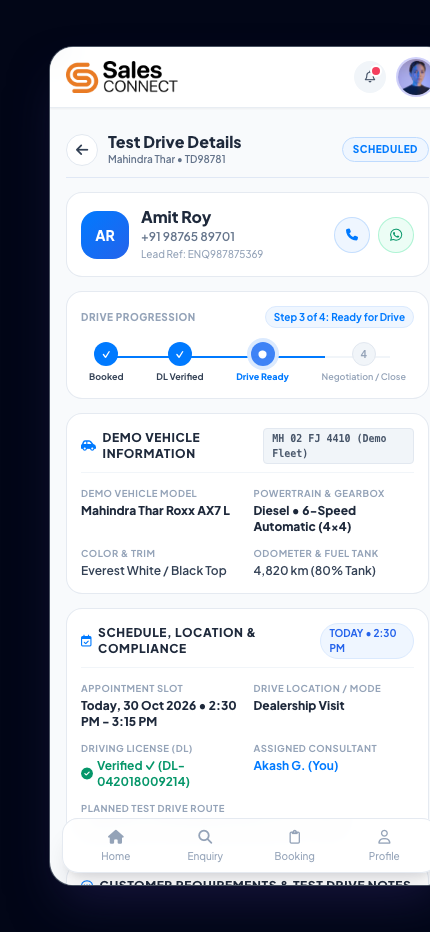
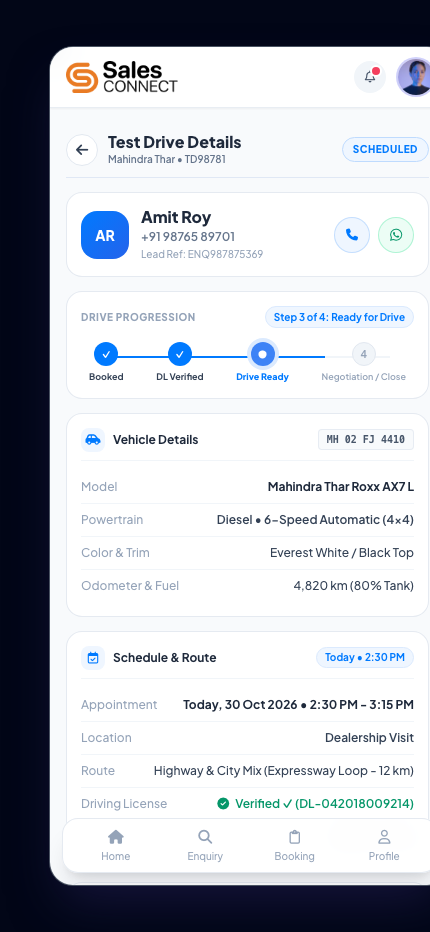
Redesign Vehicle Details, Schedule, and Notes cards with clean key-value layout and high legibility

Changed region(s): [[0.1814, 0.4667, 0.9674, 0.8712], [0.6953, 0.9335, 0.7256, 0.9646], [0.514, 0.9335, 0.5442, 0.9646]]

diff --git a/index.html b/index.html
@@ -2996,90 +2996,97 @@
           </div>
         </div>
 
-        <!-- 3. Test Drive Vehicle Specifications Card -->
-        <div class="bg-white rounded-2xl border border-slate-200/90 p-3.5 shadow-xs space-y-3">
-          <div class="flex items-center justify-between border-b border-slate-100 pb-2">
-            <h3 class="text-xs font-black text-slate-800 uppercase tracking-wider flex items-center gap-1.5">
-              <i class="fa-solid fa-car-side text-[#007AFF] text-xs"></i>
-              <span>Demo Vehicle Information</span>
-            </h3>
-            <span id="tdScreenFleetBadge" class="text-[10px] font-mono font-bold text-slate-600 bg-slate-100 px-2 py-0.5 rounded border border-slate-200">MH 02 FJ 4410</span>
+        <!-- 3. Vehicle Details -->
+        <div class="bg-white rounded-2xl border border-slate-200/90 p-3.5 shadow-xs space-y-2.5">
+          <div class="flex items-center justify-between pb-2 border-b border-slate-100">
+            <div class="flex items-center gap-2">
+              <div class="w-6 h-6 rounded-lg bg-blue-50 text-[#007AFF] flex items-center justify-center text-xs">
+                <i class="fa-solid fa-car-side"></i>
+              </div>
+              <h3 class="text-xs font-bold text-slate-800">Vehicle Details</h3>
+            </div>
+            <span id="tdScreenFleetBadge" class="text-[10px] font-mono font-semibold text-slate-600 bg-slate-50 px-2 py-0.5 rounded border border-slate-200/80">MH 02 FJ 4410</span>
           </div>
 
-          <div class="grid grid-cols-2 gap-y-2.5 gap-x-3 text-xs">
-            <div>
-              <span class="text-[9.5px] font-bold text-slate-400 uppercase tracking-wider block">Demo Vehicle Model</span>
-              <span id="tdScreenVehicleModel" class="font-extrabold text-slate-800 text-xs block mt-0.5">Mahindra Thar Roxx AX7 L</span>
+          <div class="divide-y divide-slate-100 text-xs">
+            <div class="py-2 flex items-center justify-between gap-3">
+              <span class="text-slate-400 font-medium shrink-0">Model</span>
+              <span id="tdScreenVehicleModel" class="font-bold text-slate-800 text-right truncate">Mahindra Thar Roxx AX7 L</span>
             </div>
-            <div>
-              <span class="text-[9.5px] font-bold text-slate-400 uppercase tracking-wider block">Powertrain & Gearbox</span>
-              <span id="tdScreenFuelTrans" class="font-extrabold text-slate-800 text-xs block mt-0.5">Diesel • Automatic (4x4)</span>
+            <div class="py-2 flex items-center justify-between gap-3">
+              <span class="text-slate-400 font-medium shrink-0">Powertrain</span>
+              <span id="tdScreenFuelTrans" class="font-semibold text-slate-700 text-right truncate">Diesel • Automatic (4x4)</span>
             </div>
-            <div>
-              <span class="text-[9.5px] font-bold text-slate-400 uppercase tracking-wider block">Color & Trim</span>
-              <span id="tdScreenColor" class="font-semibold text-slate-700 block mt-0.5">Everest White / Black Top</span>
+            <div class="py-2 flex items-center justify-between gap-3">
+              <span class="text-slate-400 font-medium shrink-0">Color & Trim</span>
+              <span id="tdScreenColor" class="font-medium text-slate-700 text-right truncate">Everest White / Black Top</span>
             </div>
-            <div>
-              <span class="text-[9.5px] font-bold text-slate-400 uppercase tracking-wider block">Odometer & Fuel Tank</span>
-              <span id="tdScreenOdo" class="font-semibold text-slate-700 block mt-0.5">4,820 km (80% Tank)</span>
+            <div class="py-2 flex items-center justify-between gap-3">
+              <span class="text-slate-400 font-medium shrink-0">Odometer & Fuel</span>
+              <span id="tdScreenOdo" class="font-medium text-slate-700 text-right">4,820 km (80% Tank)</span>
             </div>
           </div>
         </div>
 
-        <!-- 4. Schedule, Location & Compliance Details Card -->
-        <div class="bg-white rounded-2xl border border-slate-200/90 p-3.5 shadow-xs space-y-3">
-          <div class="flex items-center justify-between border-b border-slate-100 pb-2">
-            <h3 class="text-xs font-black text-slate-800 uppercase tracking-wider flex items-center gap-1.5">
-              <i class="fa-regular fa-calendar-check text-[#007AFF] text-xs"></i>
-              <span>Schedule, Location & Compliance</span>
-            </h3>
-            <span id="tdScreenSlotPill" class="text-[10px] font-bold text-blue-600 bg-blue-50 px-2 py-0.5 rounded-full border border-blue-100">TODAY • 2:30 PM</span>
+        <!-- 4. Schedule & Route -->
+        <div class="bg-white rounded-2xl border border-slate-200/90 p-3.5 shadow-xs space-y-2.5">
+          <div class="flex items-center justify-between pb-2 border-b border-slate-100">
+            <div class="flex items-center gap-2">
+              <div class="w-6 h-6 rounded-lg bg-blue-50 text-[#007AFF] flex items-center justify-center text-xs">
+                <i class="fa-regular fa-calendar-check"></i>
+              </div>
+              <h3 class="text-xs font-bold text-slate-800">Schedule & Route</h3>
+            </div>
+            <span id="tdScreenSlotPill" class="text-[10px] font-bold text-[#007AFF] bg-blue-50 px-2 py-0.5 rounded-full border border-blue-100">Today • 2:30 PM</span>
           </div>
 
-          <div class="grid grid-cols-2 gap-y-2.5 gap-x-3 text-xs">
-            <div>
-              <span class="text-[9.5px] font-bold text-slate-400 uppercase tracking-wider block">Appointment Slot</span>
-              <span id="tdScreenSlot" class="font-extrabold text-slate-800 text-xs block mt-0.5">Today, 30 Oct • 2:30 - 3:15 PM</span>
+          <div class="divide-y divide-slate-100 text-xs">
+            <div class="py-2 flex items-center justify-between gap-3">
+              <span class="text-slate-400 font-medium shrink-0">Appointment</span>
+              <span id="tdScreenSlot" class="font-bold text-slate-800 text-right">Today, 30 Oct • 2:30 - 3:15 PM</span>
             </div>
-            <div>
-              <span class="text-[9.5px] font-bold text-slate-400 uppercase tracking-wider block">Drive Location / Mode</span>
-              <span id="tdScreenLocation" class="font-extrabold text-slate-800 text-xs block mt-0.5">Dealership Visit</span>
+            <div class="py-2 flex items-center justify-between gap-3">
+              <span class="text-slate-400 font-medium shrink-0">Location</span>
+              <span id="tdScreenLocation" class="font-semibold text-slate-700 text-right">Dealership Visit</span>
             </div>
-            <div>
-              <span class="text-[9.5px] font-bold text-slate-400 uppercase tracking-wider block">Driving License (DL)</span>
-              <span id="tdScreenDl" class="font-bold text-emerald-600 block mt-0.5 flex items-center gap-1">
+            <div class="py-2 flex items-center justify-between gap-3">
+              <span class="text-slate-400 font-medium shrink-0">Route</span>
+              <span id="tdScreenRoute" class="font-medium text-slate-700 text-right truncate">Expressway Loop (12 km)</span>
+            </div>
+            <div class="py-2 flex items-center justify-between gap-3">
+              <span class="text-slate-400 font-medium shrink-0">Driving License</span>
+              <span id="tdScreenDl" class="font-semibold text-emerald-600 flex items-center gap-1.5 text-right">
                 <i class="fa-solid fa-circle-check text-xs"></i>
                 <span>Verified (DL-042018009214)</span>
               </span>
             </div>
-            <div>
-              <span class="text-[9.5px] font-bold text-slate-400 uppercase tracking-wider block">Assigned Consultant</span>
-              <span id="tdScreenExecutive" class="font-bold text-[#007AFF] block mt-0.5">Akash G. (You)</span>
-            </div>
-            <div class="col-span-2">
-              <span class="text-[9.5px] font-bold text-slate-400 uppercase tracking-wider block">Planned Test Drive Route</span>
-              <span id="tdScreenRoute" class="font-semibold text-slate-700 block mt-0.5">Highway & City Mix (Expressway Loop - 12 km)</span>
+            <div class="py-2 flex items-center justify-between gap-3">
+              <span class="text-slate-400 font-medium shrink-0">Consultant</span>
+              <span id="tdScreenExecutive" class="font-semibold text-slate-700 text-right">Akash G. (You)</span>
             </div>
           </div>
         </div>
 
-        <!-- 5. Test Drive Remarks & Customer Focus -->
+        <!-- 5. Test Drive Notes -->
         <div class="bg-white rounded-2xl border border-slate-200/90 p-3.5 shadow-xs space-y-2.5">
-          <h3 class="text-xs font-black text-slate-800 uppercase tracking-wider flex items-center gap-1.5">
-            <i class="fa-regular fa-comment-dots text-[#007AFF] text-xs"></i>
-            <span>Customer Requirements & Test Drive Notes</span>
-          </h3>
-          <div class="bg-slate-50 p-3 rounded-xl border border-slate-200/70 text-xs space-y-2">
-            <div class="flex items-start gap-2">
-              <span class="w-1.5 h-1.5 rounded-full bg-[#007AFF] mt-1.5 shrink-0"></span>
-              <p id="tdScreenNotes" class="text-slate-700 leading-snug">
+          <div class="flex items-center gap-2 pb-2 border-b border-slate-100">
+            <div class="w-6 h-6 rounded-lg bg-blue-50 text-[#007AFF] flex items-center justify-center text-xs">
+              <i class="fa-regular fa-comment-dots"></i>
+            </div>
+            <h3 class="text-xs font-bold text-slate-800">Test Drive Notes</h3>
+          </div>
+
+          <div class="space-y-2 text-xs">
+            <div class="bg-slate-50/70 p-2.5 rounded-xl border border-slate-200/60">
+              <span class="text-[10px] font-bold text-slate-400 uppercase tracking-wide block mb-1">Customer Focus</span>
+              <p id="tdScreenNotes" class="text-slate-700 leading-relaxed font-medium">
                 Customer comparing with Scorpio-N and wants to check rear seat comfort, highway stability, and ADAS Level 2 features.
               </p>
             </div>
-            <div class="flex items-start gap-2 pt-1 border-t border-slate-200/60">
-              <span class="w-1.5 h-1.5 rounded-full bg-emerald-500 mt-1.5 shrink-0"></span>
-              <p id="tdScreenFeedback" class="text-slate-700 leading-snug font-medium">
-                Customer feedback: Highly positive after drive demonstration. Requested formal quotation and financing sheet.
+            <div class="bg-slate-50/70 p-2.5 rounded-xl border border-slate-200/60">
+              <span class="text-[10px] font-bold text-slate-400 uppercase tracking-wide block mb-1">Feedback & Impression</span>
+              <p id="tdScreenFeedback" class="text-slate-700 leading-relaxed font-medium">
+                Demonstration completed. Customer requested formal price discount sheet and financing options.
               </p>
             </div>
           </div>
@@ -6871,19 +6878,19 @@
       if (leadRef) leadRef.innerText = `Lead Ref: ${td.leadId || td.id}`;
       if (stageText) stageText.innerText = td.stageText || 'Ready for Negotiation / Close';
       if (stepper) stepper.style.width = td.stepperProgress || '66%';
-      if (fleetBadge) fleetBadge.innerText = td.fleetReg || 'Demo Fleet';
+      if (fleetBadge) fleetBadge.innerText = (td.fleetReg || 'Demo Fleet').replace(' (Demo Fleet)', '');
       if (vehicleModel) vehicleModel.innerText = td.model;
       if (fuelTrans) fuelTrans.innerText = td.fuelTrans;
       if (color) color.innerText = td.color;
       if (odo) odo.innerText = td.odo;
-      if (slotPill) slotPill.innerText = td.slotPill;
+      if (slotPill) slotPill.innerText = (td.slotPill || 'Today').replace('TODAY • ', 'Today • ').replace('TOMORROW • ', 'Tomorrow • ');
       if (slot) slot.innerText = `${td.date} • ${td.slot}`;
       if (loc) loc.innerText = td.location;
       if (dl) dl.innerHTML = `<i class=\"fa-solid fa-circle-check text-xs text-emerald-600\"></i> <span>${td.dlStatus}</span>`;
       if (exec) exec.innerText = td.executive;
       if (route) route.innerText = td.route;
       if (notes) notes.innerText = td.notes;
-      if (feedback) feedback.innerText = `Customer Impression: ${td.feedback}`;
+      if (feedback) feedback.innerText = (td.feedback || '').replace(/^Customer Impression:\s*/i, '');
       if (outcomeBadge) {
         if (td.status === 'In Negotiation') {
           outcomeBadge.innerText = 'IN NEGOTIATION';

diff --git a/sales_connect_redesign.html b/sales_connect_redesign.html
@@ -2996,90 +2996,97 @@
           </div>
         </div>
 
-        <!-- 3. Test Drive Vehicle Specifications Card -->
-        <div class="bg-white rounded-2xl border border-slate-200/90 p-3.5 shadow-xs space-y-3">
-          <div class="flex items-center justify-between border-b border-slate-100 pb-2">
-            <h3 class="text-xs font-black text-slate-800 uppercase tracking-wider flex items-center gap-1.5">
-              <i class="fa-solid fa-car-side text-[#007AFF] text-xs"></i>
-              <span>Demo Vehicle Information</span>
-            </h3>
-            <span id="tdScreenFleetBadge" class="text-[10px] font-mono font-bold text-slate-600 bg-slate-100 px-2 py-0.5 rounded border border-slate-200">MH 02 FJ 4410</span>
+        <!-- 3. Vehicle Details -->
+        <div class="bg-white rounded-2xl border border-slate-200/90 p-3.5 shadow-xs space-y-2.5">
+          <div class="flex items-center justify-between pb-2 border-b border-slate-100">
+            <div class="flex items-center gap-2">
+              <div class="w-6 h-6 rounded-lg bg-blue-50 text-[#007AFF] flex items-center justify-center text-xs">
+                <i class="fa-solid fa-car-side"></i>
+              </div>
+              <h3 class="text-xs font-bold text-slate-800">Vehicle Details</h3>
+            </div>
+            <span id="tdScreenFleetBadge" class="text-[10px] font-mono font-semibold text-slate-600 bg-slate-50 px-2 py-0.5 rounded border border-slate-200/80">MH 02 FJ 4410</span>
           </div>
 
-          <div class="grid grid-cols-2 gap-y-2.5 gap-x-3 text-xs">
-            <div>
-              <span class="text-[9.5px] font-bold text-slate-400 uppercase tracking-wider block">Demo Vehicle Model</span>
-              <span id="tdScreenVehicleModel" class="font-extrabold text-slate-800 text-xs block mt-0.5">Mahindra Thar Roxx AX7 L</span>
+          <div class="divide-y divide-slate-100 text-xs">
+            <div class="py-2 flex items-center justify-between gap-3">
+              <span class="text-slate-400 font-medium shrink-0">Model</span>
+              <span id="tdScreenVehicleModel" class="font-bold text-slate-800 text-right truncate">Mahindra Thar Roxx AX7 L</span>
             </div>
-            <div>
-              <span class="text-[9.5px] font-bold text-slate-400 uppercase tracking-wider block">Powertrain & Gearbox</span>
-              <span id="tdScreenFuelTrans" class="font-extrabold text-slate-800 text-xs block mt-0.5">Diesel • Automatic (4x4)</span>
+            <div class="py-2 flex items-center justify-between gap-3">
+              <span class="text-slate-400 font-medium shrink-0">Powertrain</span>
+              <span id="tdScreenFuelTrans" class="font-semibold text-slate-700 text-right truncate">Diesel • Automatic (4x4)</span>
             </div>
-            <div>
-              <span class="text-[9.5px] font-bold text-slate-400 uppercase tracking-wider block">Color & Trim</span>
-              <span id="tdScreenColor" class="font-semibold text-slate-700 block mt-0.5">Everest White / Black Top</span>
+            <div class="py-2 flex items-center justify-between gap-3">
+              <span class="text-slate-400 font-medium shrink-0">Color & Trim</span>
+              <span id="tdScreenColor" class="font-medium text-slate-700 text-right truncate">Everest White / Black Top</span>
             </div>
-            <div>
-              <span class="text-[9.5px] font-bold text-slate-400 uppercase tracking-wider block">Odometer & Fuel Tank</span>
-              <span id="tdScreenOdo" class="font-semibold text-slate-700 block mt-0.5">4,820 km (80% Tank)</span>
+            <div class="py-2 flex items-center justify-between gap-3">
+              <span class="text-slate-400 font-medium shrink-0">Odometer & Fuel</span>
+              <span id="tdScreenOdo" class="font-medium text-slate-700 text-right">4,820 km (80% Tank)</span>
             </div>
           </div>
         </div>
 
-        <!-- 4. Schedule, Location & Compliance Details Card -->
-        <div class="bg-white rounded-2xl border border-slate-200/90 p-3.5 shadow-xs space-y-3">
-          <div class="flex items-center justify-between border-b border-slate-100 pb-2">
-            <h3 class="text-xs font-black text-slate-800 uppercase tracking-wider flex items-center gap-1.5">
-              <i class="fa-regular fa-calendar-check text-[#007AFF] text-xs"></i>
-              <span>Schedule, Location & Compliance</span>
-            </h3>
-            <span id="tdScreenSlotPill" class="text-[10px] font-bold text-blue-600 bg-blue-50 px-2 py-0.5 rounded-full border border-blue-100">TODAY • 2:30 PM</span>
+        <!-- 4. Schedule & Route -->
+        <div class="bg-white rounded-2xl border border-slate-200/90 p-3.5 shadow-xs space-y-2.5">
+          <div class="flex items-center justify-between pb-2 border-b border-slate-100">
+            <div class="flex items-center gap-2">
+              <div class="w-6 h-6 rounded-lg bg-blue-50 text-[#007AFF] flex items-center justify-center text-xs">
+                <i class="fa-regular fa-calendar-check"></i>
+              </div>
+              <h3 class="text-xs font-bold text-slate-800">Schedule & Route</h3>
+            </div>
+            <span id="tdScreenSlotPill" class="text-[10px] font-bold text-[#007AFF] bg-blue-50 px-2 py-0.5 rounded-full border border-blue-100">Today • 2:30 PM</span>
           </div>
 
-          <div class="grid grid-cols-2 gap-y-2.5 gap-x-3 text-xs">
-            <div>
-              <span class="text-[9.5px] font-bold text-slate-400 uppercase tracking-wider block">Appointment Slot</span>
-              <span id="tdScreenSlot" class="font-extrabold text-slate-800 text-xs block mt-0.5">Today, 30 Oct • 2:30 - 3:15 PM</span>
+          <div class="divide-y divide-slate-100 text-xs">
+            <div class="py-2 flex items-center justify-between gap-3">
+              <span class="text-slate-400 font-medium shrink-0">Appointment</span>
+              <span id="tdScreenSlot" class="font-bold text-slate-800 text-right">Today, 30 Oct • 2:30 - 3:15 PM</span>
             </div>
-            <div>
-              <span class="text-[9.5px] font-bold text-slate-400 uppercase tracking-wider block">Drive Location / Mode</span>
-              <span id="tdScreenLocation" class="font-extrabold text-slate-800 text-xs block mt-0.5">Dealership Visit</span>
+            <div class="py-2 flex items-center justify-between gap-3">
+              <span class="text-slate-400 font-medium shrink-0">Location</span>
+              <span id="tdScreenLocation" class="font-semibold text-slate-700 text-right">Dealership Visit</span>
             </div>
-            <div>
-              <span class="text-[9.5px] font-bold text-slate-400 uppercase tracking-wider block">Driving License (DL)</span>
-              <span id="tdScreenDl" class="font-bold text-emerald-600 block mt-0.5 flex items-center gap-1">
+            <div class="py-2 flex items-center justify-between gap-3">
+              <span class="text-slate-400 font-medium shrink-0">Route</span>
+              <span id="tdScreenRoute" class="font-medium text-slate-700 text-right truncate">Expressway Loop (12 km)</span>
+            </div>
+            <div class="py-2 flex items-center justify-between gap-3">
+              <span class="text-slate-400 font-medium shrink-0">Driving License</span>
+              <span id="tdScreenDl" class="font-semibold text-emerald-600 flex items-center gap-1.5 text-right">
                 <i class="fa-solid fa-circle-check text-xs"></i>
                 <span>Verified (DL-042018009214)</span>
               </span>
             </div>
-            <div>
-              <span class="text-[9.5px] font-bold text-slate-400 uppercase tracking-wider block">Assigned Consultant</span>
-              <span id="tdScreenExecutive" class="font-bold text-[#007AFF] block mt-0.5">Akash G. (You)</span>
-            </div>
-            <div class="col-span-2">
-              <span class="text-[9.5px] font-bold text-slate-400 uppercase tracking-wider block">Planned Test Drive Route</span>
-              <span id="tdScreenRoute" class="font-semibold text-slate-700 block mt-0.5">Highway & City Mix (Expressway Loop - 12 km)</span>
+            <div class="py-2 flex items-center justify-between gap-3">
+              <span class="text-slate-400 font-medium shrink-0">Consultant</span>
+              <span id="tdScreenExecutive" class="font-semibold text-slate-700 text-right">Akash G. (You)</span>
             </div>
           </div>
         </div>
 
-        <!-- 5. Test Drive Remarks & Customer Focus -->
+        <!-- 5. Test Drive Notes -->
         <div class="bg-white rounded-2xl border border-slate-200/90 p-3.5 shadow-xs space-y-2.5">
-          <h3 class="text-xs font-black text-slate-800 uppercase tracking-wider flex items-center gap-1.5">
-            <i class="fa-regular fa-comment-dots text-[#007AFF] text-xs"></i>
-            <span>Customer Requirements & Test Drive Notes</span>
-          </h3>
-          <div class="bg-slate-50 p-3 rounded-xl border border-slate-200/70 text-xs space-y-2">
-            <div class="flex items-start gap-2">
-              <span class="w-1.5 h-1.5 rounded-full bg-[#007AFF] mt-1.5 shrink-0"></span>
-              <p id="tdScreenNotes" class="text-slate-700 leading-snug">
+          <div class="flex items-center gap-2 pb-2 border-b border-slate-100">
+            <div class="w-6 h-6 rounded-lg bg-blue-50 text-[#007AFF] flex items-center justify-center text-xs">
+              <i class="fa-regular fa-comment-dots"></i>
+            </div>
+            <h3 class="text-xs font-bold text-slate-800">Test Drive Notes</h3>
+          </div>
+
+          <div class="space-y-2 text-xs">
+            <div class="bg-slate-50/70 p-2.5 rounded-xl border border-slate-200/60">
+              <span class="text-[10px] font-bold text-slate-400 uppercase tracking-wide block mb-1">Customer Focus</span>
+              <p id="tdScreenNotes" class="text-slate-700 leading-relaxed font-medium">
                 Customer comparing with Scorpio-N and wants to check rear seat comfort, highway stability, and ADAS Level 2 features.
               </p>
             </div>
-            <div class="flex items-start gap-2 pt-1 border-t border-slate-200/60">
-              <span class="w-1.5 h-1.5 rounded-full bg-emerald-500 mt-1.5 shrink-0"></span>
-              <p id="tdScreenFeedback" class="text-slate-700 leading-snug font-medium">
-                Customer feedback: Highly positive after drive demonstration. Requested formal quotation and financing sheet.
+            <div class="bg-slate-50/70 p-2.5 rounded-xl border border-slate-200/60">
+              <span class="text-[10px] font-bold text-slate-400 uppercase tracking-wide block mb-1">Feedback & Impression</span>
+              <p id="tdScreenFeedback" class="text-slate-700 leading-relaxed font-medium">
+                Demonstration completed. Customer requested formal price discount sheet and financing options.
               </p>
             </div>
           </div>
@@ -6871,19 +6878,19 @@
       if (leadRef) leadRef.innerText = `Lead Ref: ${td.leadId || td.id}`;
       if (stageText) stageText.innerText = td.stageText || 'Ready for Negotiation / Close';
       if (stepper) stepper.style.width = td.stepperProgress || '66%';
-      if (fleetBadge) fleetBadge.innerText = td.fleetReg || 'Demo Fleet';
+      if (fleetBadge) fleetBadge.innerText = (td.fleetReg || 'Demo Fleet').replace(' (Demo Fleet)', '');
       if (vehicleModel) vehicleModel.innerText = td.model;
       if (fuelTrans) fuelTrans.innerText = td.fuelTrans;
       if (color) color.innerText = td.color;
       if (odo) odo.innerText = td.odo;
-      if (slotPill) slotPill.innerText = td.slotPill;
+      if (slotPill) slotPill.innerText = (td.slotPill || 'Today').replace('TODAY • ', 'Today • ').replace('TOMORROW • ', 'Tomorrow • ');
       if (slot) slot.innerText = `${td.date} • ${td.slot}`;
       if (loc) loc.innerText = td.location;
       if (dl) dl.innerHTML = `<i class=\"fa-solid fa-circle-check text-xs text-emerald-600\"></i> <span>${td.dlStatus}</span>`;
       if (exec) exec.innerText = td.executive;
       if (route) route.innerText = td.route;
       if (notes) notes.innerText = td.notes;
-      if (feedback) feedback.innerText = `Customer Impression: ${td.feedback}`;
+      if (feedback) feedback.innerText = (td.feedback || '').replace(/^Customer Impression:\s*/i, '');
       if (outcomeBadge) {
         if (td.status === 'In Negotiation') {
           outcomeBadge.innerText = 'IN NEGOTIATION';

diff --git a/walkthrough.md b/walkthrough.md
@@ -1348,18 +1348,23 @@ The card architecture has been completely unified across both **Follow-Up Leads*
 
 ---
 
-### 2. Dedicated Test Drive Details Screen (`#screen-test-drive-details`)
-A dedicated screen displaying **only test drive-specific information and outcomes**:
-- **App Bar**: Back button, `Test Drive Details` title, dynamic car model + slot subtitle, and status badge (`SCHEDULED`, `IN NEGOTIATION`, or `CLOSED / LOST`).
-- **Customer Card**: Quick call (`[ 📞 ]`) and WhatsApp (`[ 💬 ]`) actions in whitespace.
-- **Drive Progression Stepper**: 4-stage visual stepper (`Booked ✓` ➔ `DL Verified ✓` ➔ `Drive Ready ●` ➔ `Negotiation / Close`).
-- **Demo Vehicle Information**: Demo car model, powertrain & gearbox (`Diesel • Automatic 4x4`), fleet registration (`MH 02 FJ 4410`), color & trim, odometer & fuel level (`4,820 km, 80% Tank`).
-- **Schedule, Location & Compliance**: Appointment slot, location mode, Driving License verification status (`Verified ✓ DL-042018009214`), assigned consultant, and planned route (`Expressway Loop - 12 km`).
-- **Customer Requirements & Notes**: Specific customer focus points and test drive feedback notes.
+### 2. Clean & Readable Redesign of Test Drive Details Screen
+The previous cluttered 2-column uppercase grids have been completely redesigned for visual clarity, elegance, and effortless scannability:
 
-| Test Drive Details: Top Specs & Stepper | Test Drive Details: Scrolled View with Outcome Card |
+1. **Vehicle Details Card**:
+   - Replaced heavy all-caps labels with a clean, calm key-value list.
+   - Clean horizontal rows: **Model** (`Mahindra Thar Roxx AX7 L`), **Powertrain** (`Diesel • 6-Speed Automatic 4x4`), **Color & Trim** (`Everest White / Black Top`), and **Odometer & Fuel** (`4,820 km • 80% Tank`).
+   - Clean mono badge for registration (`MH 02 FJ 4410`).
+2. **Schedule & Route Card**:
+   - Organized into a structured horizontal row list: **Appointment** (`Today, 30 Oct • 2:30 - 3:15 PM`), **Location** (`Dealership Visit`), **Route** (`Expressway Loop - 12 km`), **Driving License** (`Verified ✓`), and **Consultant** (`Akash G.`).
+   - Soft blue pill for current slot timing (`Today • 2:30 PM`).
+3. **Test Drive Notes Card**:
+   - Removed nested dark grey blocks and heavy bullet points.
+   - Replaced with two clean, readable rounded cards: **Customer Focus** and **Feedback & Impression**, providing ample breathing room and smooth line height.
+
+| Redesigned Top View (Vehicle Details) | Redesigned Scrolled View (Schedule, Notes & Outcome) |
 | :---: | :---: |
-| ![Test Drive Details Screen](file:///Users/komalpreet/.gemini/antigravity/brain/841d8135-5e2d-494d-8f72-ecf6fb143304/screenshot_td_details_screen.png) | ![Test Drive Scrolled View](file:///Users/komalpreet/.gemini/antigravity/brain/841d8135-5e2d-494d-8f72-ecf6fb143304/screenshot_td_details_scrolled.png) |
+| ![Clean Top View](file:///Users/komalpreet/.gemini/antigravity/brain/841d8135-5e2d-494d-8f72-ecf6fb143304/screenshot_td_details_screen.png) | ![Clean Scrolled View](file:///Users/komalpreet/.gemini/antigravity/brain/841d8135-5e2d-494d-8f72-ecf6fb143304/screenshot_td_clean_readable.png) |
 
 ---
 
